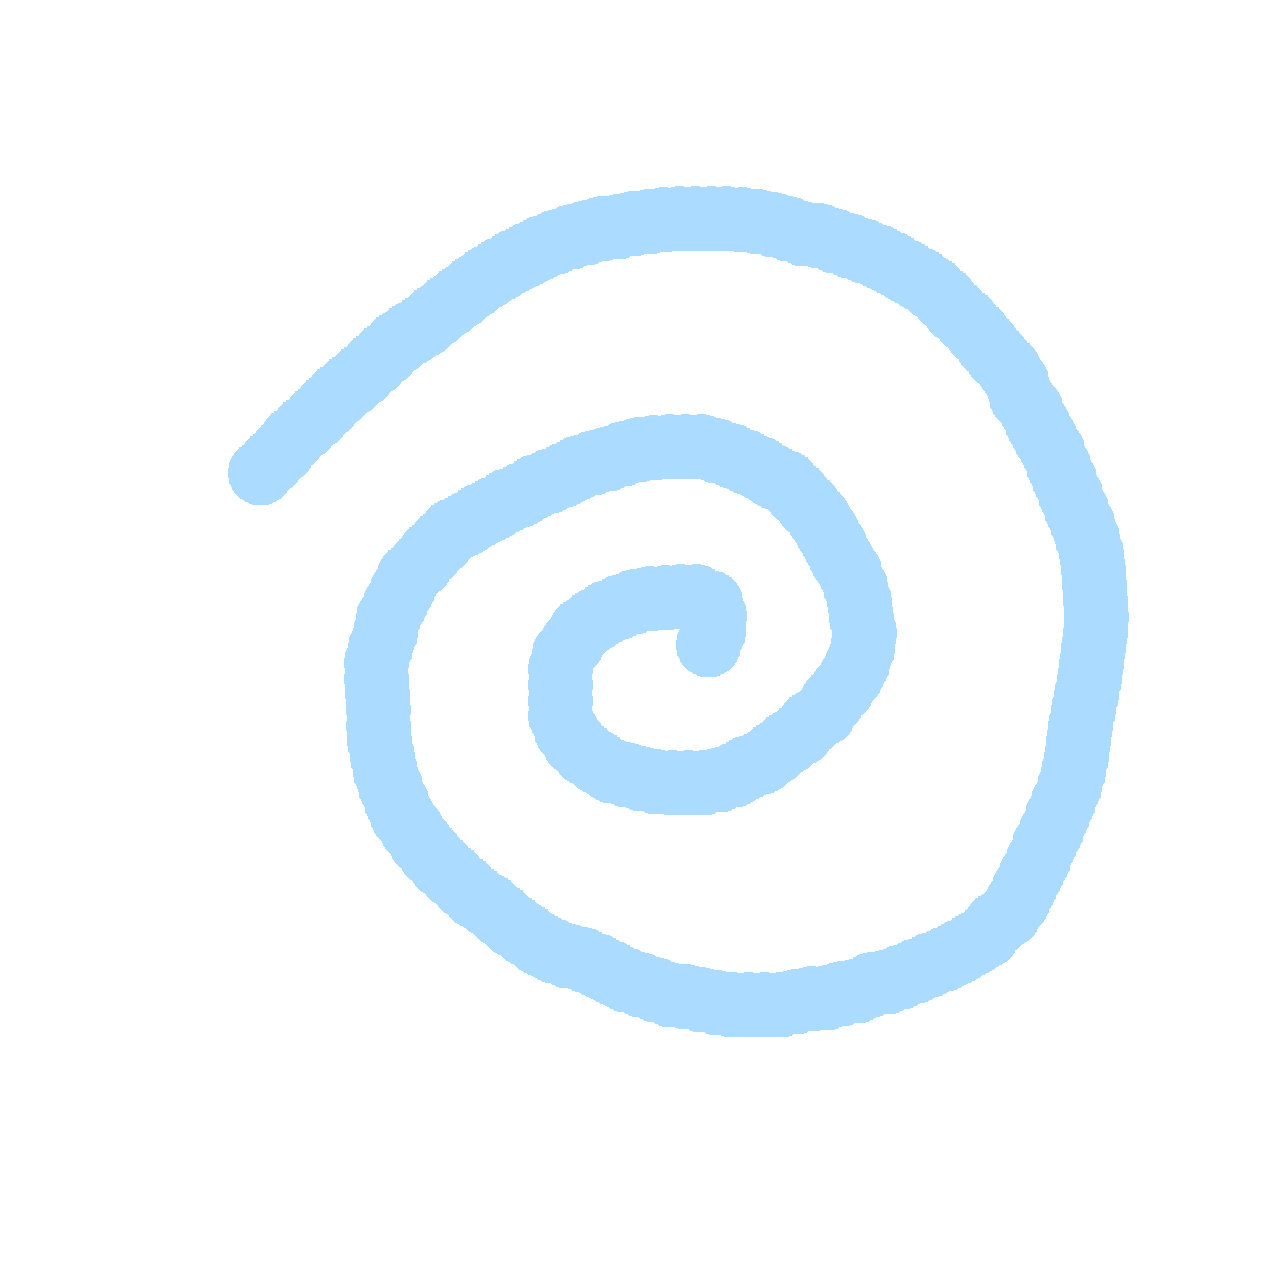
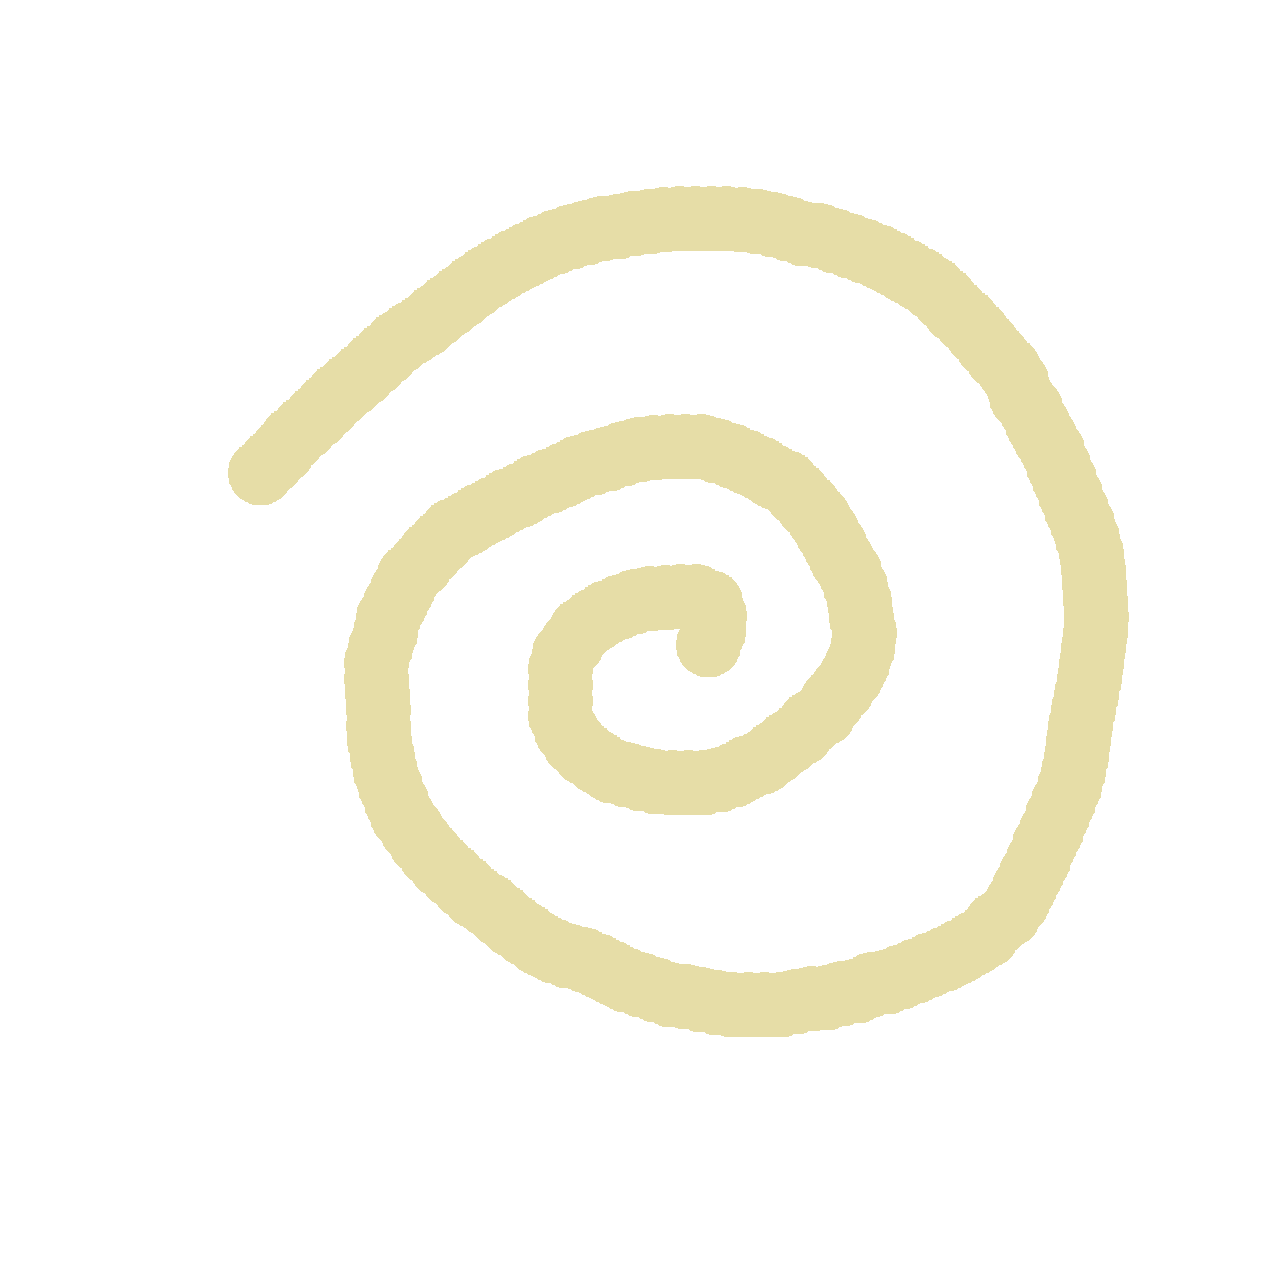
chagne the color of the objects in first page

Changed region(s): [[0.1562, 0.125, 0.9062, 0.8125]]

diff --git a/index.html b/index.html
@@ -5,12 +5,13 @@
   <meta name="viewport" content="width=device-width, initial-scale=1.0">
   <title>GABS Art Gallery</title>
   <link href="https://fonts.cdnfonts.com/css/bebas-neue" rel="stylesheet">
+  <link href="https://fonts.cdnfonts.com/css/nunito" rel="stylesheet">
   <style>
     @import url('https://fonts.cdnfonts.com/css/bebas-neue');
   </style>
-
-
-
+  <style>
+    @import url('https://fonts.cdnfonts.com/css/nunito');
+  </style>
   <link rel="stylesheet" href="style.css"> 
 </head>
 <body>
@@ -25,7 +26,7 @@
       <img class="wings" src="images/yellow-wings.png">
       <img class="heart-1" src="images/heart1.png">
       <img class="spiral" src="images/spiral.png">
-      <img class="cloud" src="images/blue_cloud.png">
+      <img class="cloud" src="images/yellow_cloud.png">
       <img class="smiley" src="images/smiley.png">
       <img class="heart-3" src="images/heart3.png">
       <img class="star" src="images/star.png">
@@ -42,11 +43,20 @@
     <img class="clouds-before-4" src="images/cloud.png">
 
     <section class="second-page">
-      <div class="intro-text">  
-        <p>Deafening <br> Creativity</p>
+      <div class="row-objects">
+        <div class="intro-text">  
+          <p>Deafening <br> Creativity</p>
+        </div>
+        <div class="gab-profile">
+          <img class="gab" src="images/gab.png">  
+        </div>
       </div>
-      <div class="gab-profile">
-        <img class="gab" src="images/gab.png">  
+      <div class="paragraph-statement">
+        <p>
+          Hi my name is Gab and I am deaf. <br>
+          I love to draw because this is the <br>
+          way how i express what I feel.
+        </p>
       </div>
     </section>
   </main>

diff --git a/style.css b/style.css
@@ -1,7 +1,7 @@
 * {
   margin: 0;
   padding: 0;
-  font-family: 'Bebas Neue', sans-serif;
+  font-family: 'Nunito', sans-serif;
 }
 
 body {
@@ -52,6 +52,7 @@ body {
   margin-bottom: 15rem;
   margin-top: 6.5rem;
   transition: opacity 0.1s;
+  font-family: 'Bebas Neue', sans-serif;
 }
 
 .wings {
@@ -257,7 +258,7 @@ body {
   display: flex;
   align-items: center;
   justify-content: center;
-  flex-direction: row;
+  flex-direction: column;
 }
 
 .second-page::after {
@@ -270,6 +271,12 @@ body {
   height: 100px;
   background: linear-gradient(to top, #332935, transparent);
   visibility: hidden;
+}
+
+.row-objects {
+  display: flex;
+  flex-direction: row;
+  margin-bottom: -10rem;
 }
 
 .second-page .intro-text {
@@ -286,6 +293,10 @@ body {
   margin-top: 2rem;
 }
 
+.intro-text p {
+  font-family: 'Bebas Neue', sans-serif;
+}
+
 .gab-profile {
   width: 100%;
   display: flex;
@@ -297,6 +308,20 @@ body {
 }
 
 .gab-profile .gab {
-  width: 80%;
+  width: 85%;
   opacity: 95%;
+}
+
+.paragraph-statement {
+  width: 100%;
+  height: 0;
+  display: flex;
+  align-items: start;
+  justify-content: start;
+}
+
+.paragraph-statement p {
+  font-size: 1.5rem;
+  color: white;
+  margin-left: 2rem;
 }
